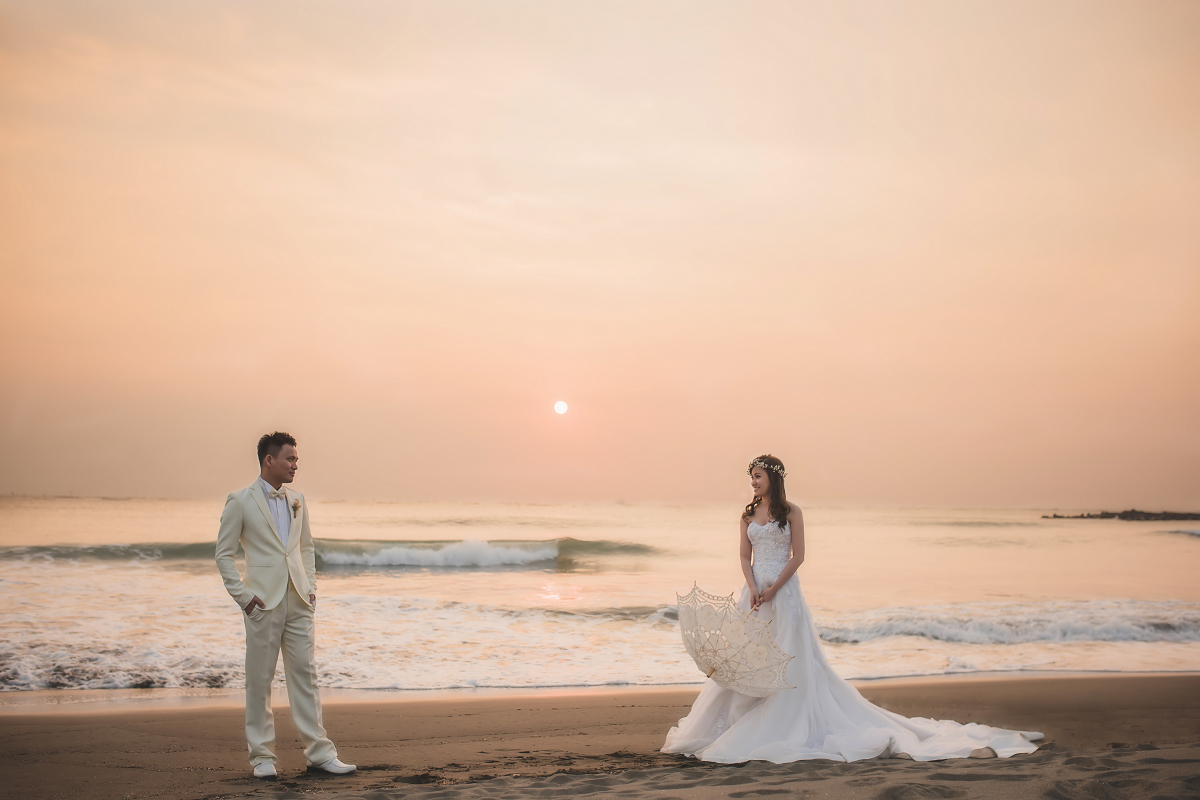
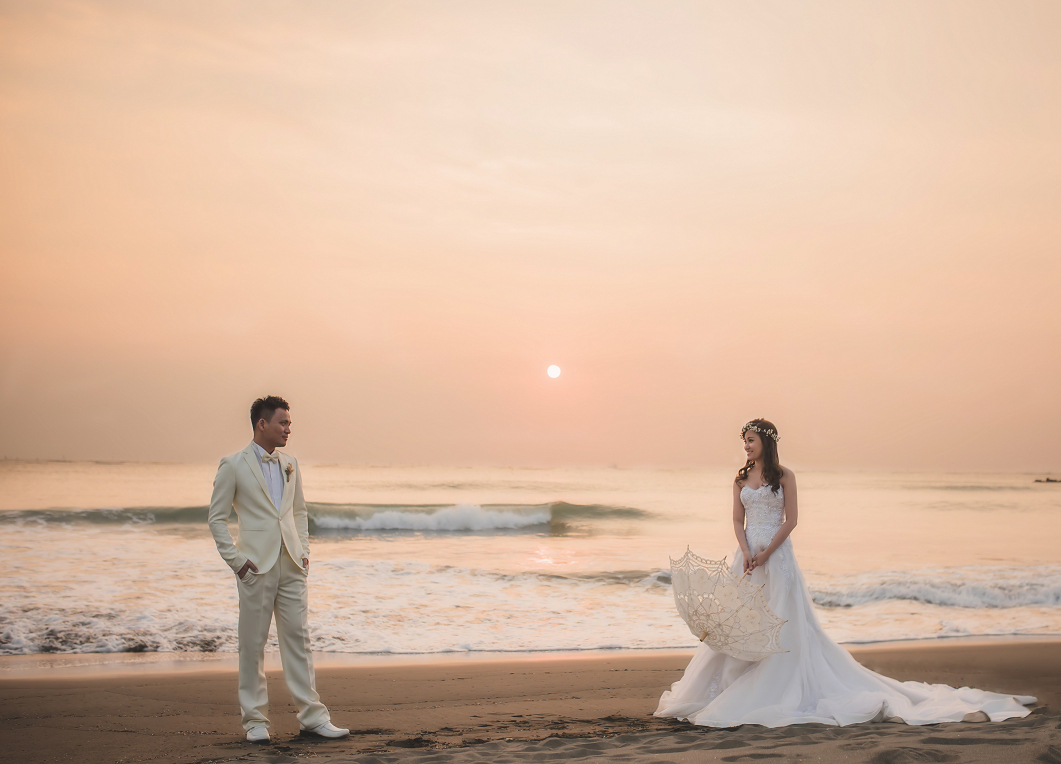
Fix tag bug, resize bg-pic.jpg

diff --git a/index.html b/index.html
@@ -115,7 +115,7 @@ http://scal.io -- check us out.
 								最為人津津樂道的是他挑男朋友的眼光極佳。<br>
 								<br>
 								你可以透過下列連結聯繫她：
-								<li><a href="https://www.facebook.com/profile.php?id=100000141676197">facebook</a></li>
+								<li><a href="https://www.facebook.com/profile.php?id=100000138559507">facebook</a></li>
 							</p>
 						</div><!--end column-->
 						<div class="column right">
@@ -152,28 +152,28 @@ http://scal.io -- check us out.
 							<h2>橋頭糖廠</h2>
 							<div id="gmap">
 								<iframe src="https://www.google.com/maps/embed?pb=!1m14!1m8!1m3!1d3679.2305435946596!2d120.31515999999999!3d22.756824!3m2!1i1024!2i768!4f13.1!3m3!1m2!1s0x346e0e440514291d%3A0xd85c1286b7912455!2z6auY6ZuE5qmL6aCt57OW5bug!5e0!3m2!1szh-TW!2stw!4v1427727152872" width="350" height="250" frameborder="0" style="border:0"></iframe>
-							<div id="gmap">
+							</div>
 						</div>
 
 						<div class="column full">
 							<h2>義大世界</h2>
 							<div id="gmap">
 								<iframe src="https://www.google.com/maps/embed?pb=!1m14!1m8!1m3!1d3679.9512037450636!2d120.40706999999998!3d22.730055!3m2!1i1024!2i768!4f13.1!3m3!1m2!1s0x346e111bbe79e287%3A0xdf4693162b1707e0!2z576p5aSn6YGK5qiC5LiW55WM!5e0!3m2!1szh-TW!2stw!4v1427727316966" width="350" height="250" frameborder="0" style="border:0"></iframe>
-							<div id="gmap">
+							</div>
 						</div>
 
 						<div class="column full">
 							<h2>蚵仔寮港觀光魚市場</h2>
 							<div id="gmap">
 								<iframe src="https://www.google.com/maps/embed?pb=!1m14!1m8!1m3!1d3680.025407448281!2d120.254612!3d22.727297!3m2!1i1024!2i768!4f13.1!3m3!1m2!1s0x346e0f4c7bdfcc57%3A0x1d0e3fe4dbe0d0d!2z6Jq15LuU5a-u5riv6KeA5YWJ6a2a5biC!5e0!3m2!1szh-TW!2stw!4v1427727536418" width="350" height="250" frameborder="0" style="border:0"></iframe>
-							<div id="gmap">
+							</div>
 						</div>
 
 						<div class="column full">
 							<h2>奇美博物館</h2>
 							<div id="gmap">
 								<iframe src="https://www.google.com/maps/embed?pb=!1m18!1m12!1m3!1d3674.4192132527496!2d120.22606789999998!3d22.93478330000001!2m3!1f0!2f0!3f0!3m2!1i1024!2i768!4f13.1!3m3!1m2!1s0x346e747aaaaaaaab%3A0xa88c13e665c7f4a6!2zNzE3NTXlj7DljZfluILku4HlvrfljYDmlofoj6_ot6_kuozmrrU2NuiZn-Wlh-e-juWNmueJqemkqA!5e0!3m2!1szh-TW!2stw!4v1427727579354" width="350" height="250" frameborder="0" style="border:0"></iframe>
-							<div id="gmap">
+							</div>
 						</div>
 					</section>
 
